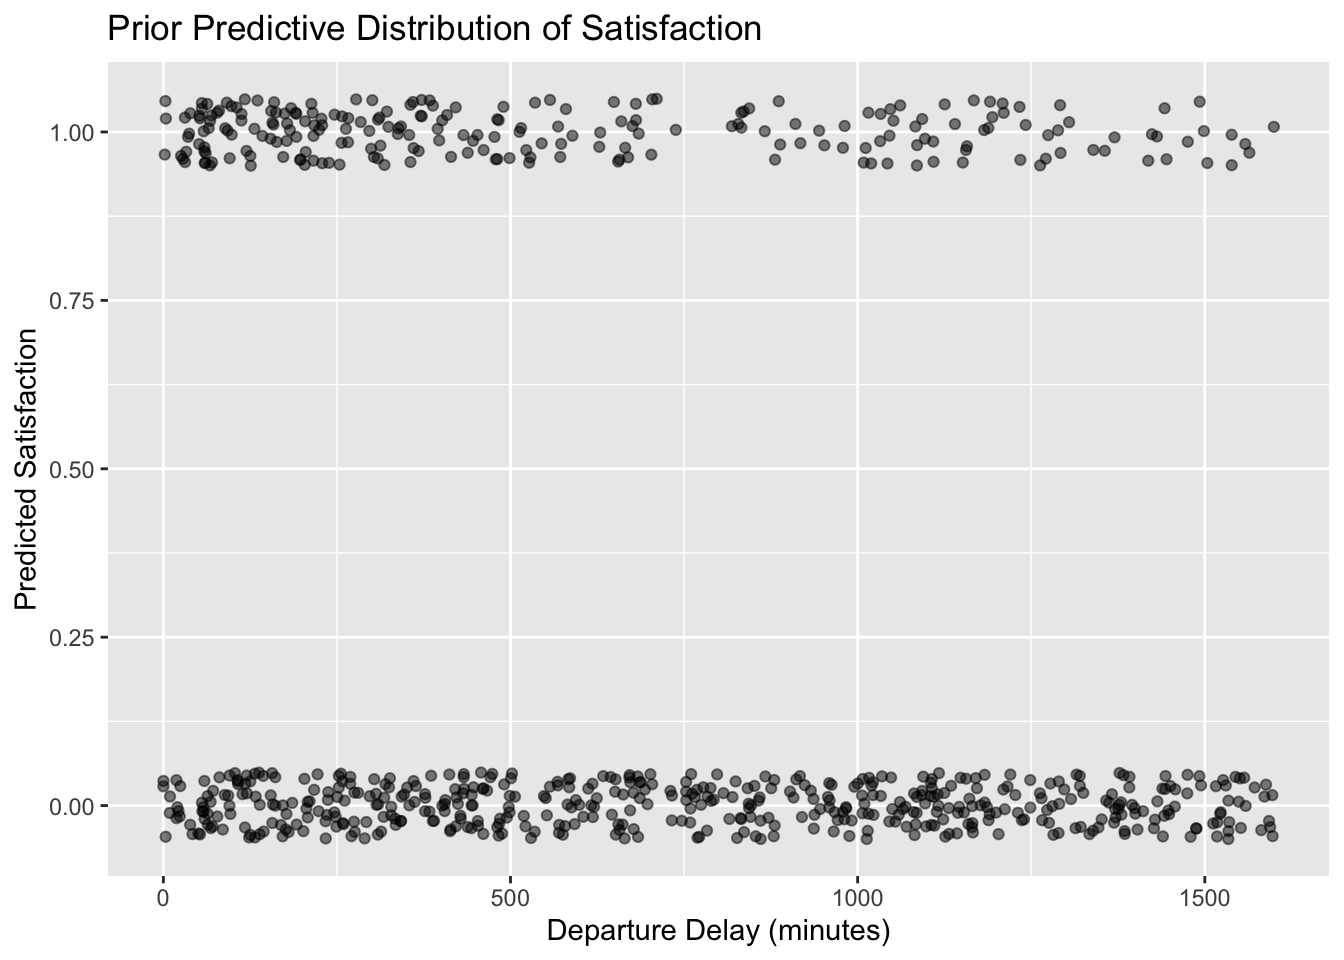
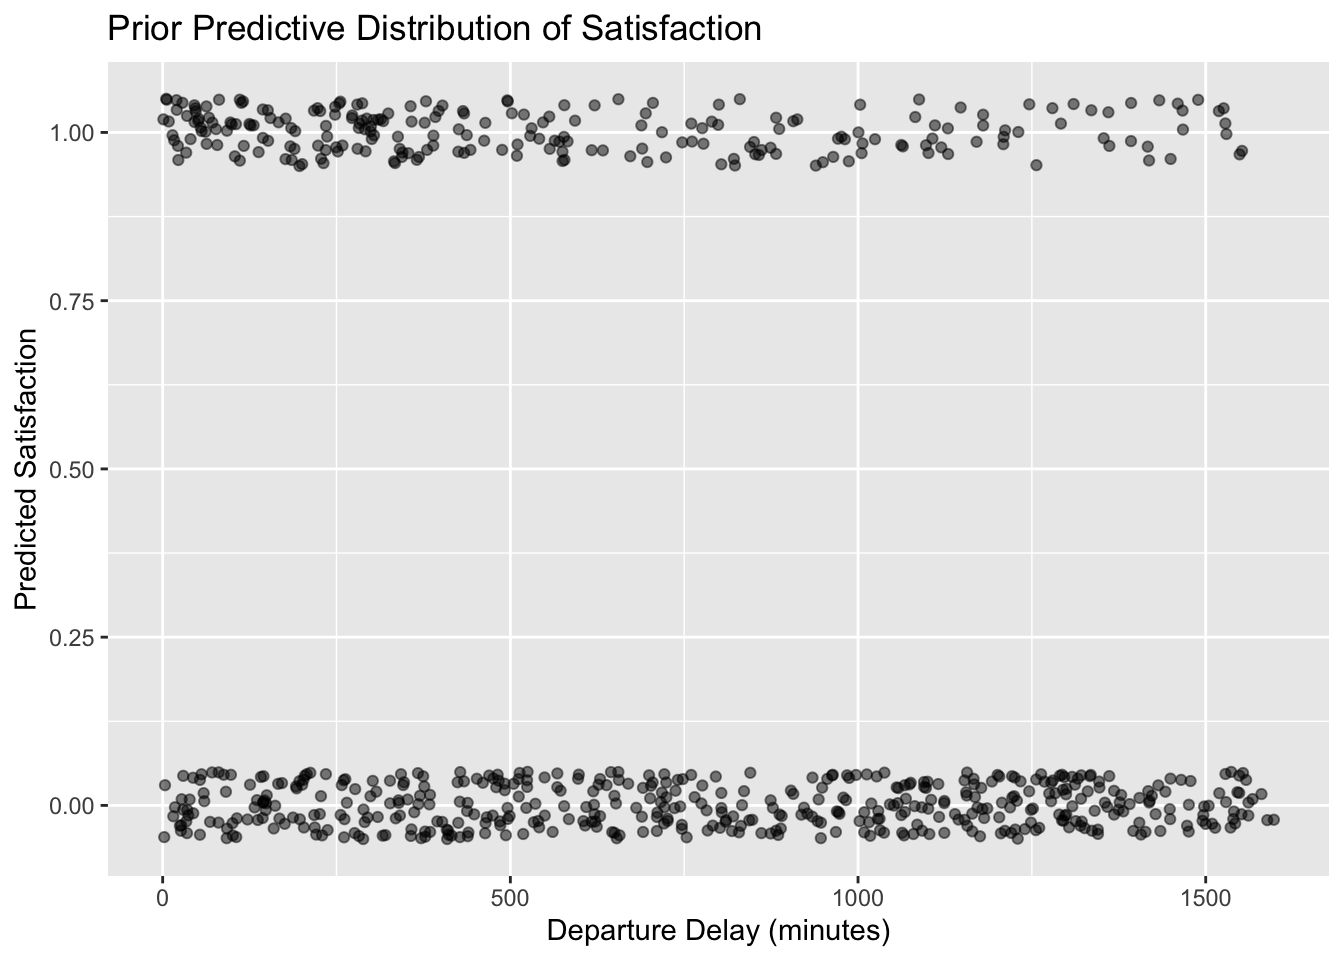
resume take 3

Changed region(s): [[0.0938, 0.7812, 0.9688, 0.875], [0.0938, 0.0938, 0.9688, 0.1875], [0.875, 0.9062, 0.9062, 0.9375]]

diff --git a/docs/posts/first-post/index.html b/docs/posts/first-post/index.html
@@ -344,7 +344,7 @@ The following object is masked from 'package:dplyr':
 <span id="cb18-7"><a href="#cb18-7" aria-hidden="true" tabindex="-1"></a>  <span class="fu">labs</span>(<span class="at">x =</span> <span class="st">"Departure Delay (minutes)"</span>, <span class="at">y =</span> <span class="st">"Predicted Satisfaction"</span>,</span>
 <span id="cb18-8"><a href="#cb18-8" aria-hidden="true" tabindex="-1"></a>       <span class="at">title =</span> <span class="st">"Prior Predictive Distribution of Satisfaction"</span>)</span></code><button title="Copy to Clipboard" class="code-copy-button"><i class="bi"></i></button></pre></div>
 <div class="cell-output cell-output-stderr">
-<pre><code>Warning: Removed 285 rows containing missing values or values outside the scale range
+<pre><code>Warning: Removed 295 rows containing missing values or values outside the scale range
 (`geom_point()`).</code></pre>
 </div>
 <div class="cell-output-display">
@@ -393,8 +393,8 @@ Formula: satisfaction ~ dep_delay
 
 Regression Coefficients:
           Estimate Est.Error l-95% CI u-95% CI Rhat Bulk_ESS Tail_ESS
-Intercept     2.27      0.11     2.06     2.49 1.00     1713     1923
-dep_delay    -0.01      0.00    -0.02    -0.01 1.00     3691     3005
+Intercept     2.26      0.11     2.05     2.47 1.00     1559     2120
+dep_delay    -0.01      0.00    -0.02    -0.01 1.00     3849     2945
 
 Draws were sampled using sampling(NUTS). For each parameter, Bulk_ESS
 and Tail_ESS are effective sample size measures, and Rhat is the potential
@@ -414,11 +414,11 @@ scale reduction factor on split chains (at convergence, Rhat = 1).</code></pre>
 <span id="cb29-2"><a href="#cb29-2" aria-hidden="true" tabindex="-1"></a><span class="fu">print</span>(ci)</span></code><button title="Copy to Clipboard" class="code-copy-button"><i class="bi"></i></button></pre></div>
 <div class="cell-output cell-output-stdout">
 <pre><code>                 Estimate   Est.Error          Q2.5         Q97.5
-b_Intercept    2.26621291 0.109514461    2.06009503  2.487793e+00
-b_dep_delay   -0.01042632 0.002431255   -0.01529607 -5.671072e-03
-Intercept      2.17341864 0.104544747    1.97657126  2.383588e+00
-lprior        -2.36711272 0.038741680   -2.44653803 -2.295715e+00
-lp__        -332.37138069 1.003918227 -334.95730677 -3.314035e+02</code></pre>
+b_Intercept    2.25997430 0.106894793    2.04862559  2.473527e+00
+b_dep_delay   -0.01045203 0.002355074   -0.01501899 -5.908706e-03
+Intercept      2.16695122 0.102252579    1.96801279  2.370360e+00
+lprior        -2.36469906 0.037773476   -2.44138358 -2.292733e+00
+lp__        -332.32452595 0.944575105 -334.85667046 -3.314094e+02</code></pre>
 </div>
 </div>
 </section>
@@ -479,8 +479,8 @@ Formula: satisfaction ~ dep_delay
 
 Regression Coefficients:
           Estimate Est.Error l-95% CI u-95% CI Rhat Bulk_ESS Tail_ESS
-Intercept     2.27      0.11     2.06     2.49 1.00     1620     2091
-dep_delay    -0.01      0.00    -0.02    -0.01 1.00     3433     2849
+Intercept     2.27      0.11     2.05     2.50 1.00     1218     1698
+dep_delay    -0.01      0.00    -0.02    -0.01 1.00     3756     2733
 
 Draws were sampled using sampling(NUTS). For each parameter, Bulk_ESS
 and Tail_ESS are effective sample size measures, and Rhat is the potential
@@ -504,11 +504,11 @@ scale reduction factor on split chains (at convergence, Rhat = 1).</code></pre>
 <span id="cb40-2"><a href="#cb40-2" aria-hidden="true" tabindex="-1"></a><span class="fu">print</span>(ci)</span></code><button title="Copy to Clipboard" class="code-copy-button"><i class="bi"></i></button></pre></div>
 <div class="cell-output cell-output-stdout">
 <pre><code>                 Estimate   Est.Error          Q2.5         Q97.5
-b_Intercept    2.27093727 0.110684863    2.06082646  2.489648e+00
-b_dep_delay   -0.01043221 0.002457025   -0.01526246 -5.518322e-03
-Intercept      2.17809056 0.105492807    1.98082395  2.387103e+00
-lprior        -4.85739972 0.002309825   -4.86213113 -4.853234e+00
-lp__        -334.87827923 1.000746264 -337.52714621 -3.338997e+02</code></pre>
+b_Intercept    2.27151778 0.113490208    2.05463989  2.501131e+00
+b_dep_delay   -0.01043651 0.002515581   -0.01557144 -5.667569e-03
+Intercept      2.17863287 0.108450031    1.97143907  2.397745e+00
+lprior        -4.85741474 0.002370920   -4.86236652 -4.853060e+00
+lp__        -334.93306647 1.047621997 -337.74442437 -3.339055e+02</code></pre>
 </div>
 </div>
 <p>After setting our own priors for our model, we got results that we the same. The $\beta_0$ value was the exact same of 2.27. The $\beta_1$ values or the slope, were the exact same at -0.01. The 95% credible interval for the intercept is approximately [2.06, 2.48], indicating that we are 95% confident that the true intercept lies within this range. This was pretty much the same as the 95% confidence interval for brm’s priors that was [2.06, 2.49]. The 95% credible interval for `dep_delay` is approximately [-0.016, -0.006], there is a 95% probability that the true value from dep_delay is within the interval. This is sightly different from the 95% credible interval for brm’s priors that was [-0.010, 0.003]. This is probably because brm chose a flat prior for the slope, but we picked one that included some prior knowledge on the slope. Overall, the prior had very little influence on the posterior distribution. So the model is not very sensitivity to the prior.</p>

diff --git a/docs/index.html b/docs/index.html
@@ -119,7 +119,7 @@ ul.task-list li input[type="checkbox"] {
     <i class="bi bi-linkedin"></i>
      <span class="about-link-text">LinkedIn</span>
   </a>
-  <a href="/jgarc521.github.io/files/JoseGarcia_Resume.pdf" class="about-link">
+  <a href="/jgarc521.github.io/Website/files/JoseGarcia_Resume.pdf" class="about-link">
     <i class="bi bi-file-earmark-pdf-fill"></i>
      <span class="about-link-text">Resume</span>
   </a>
